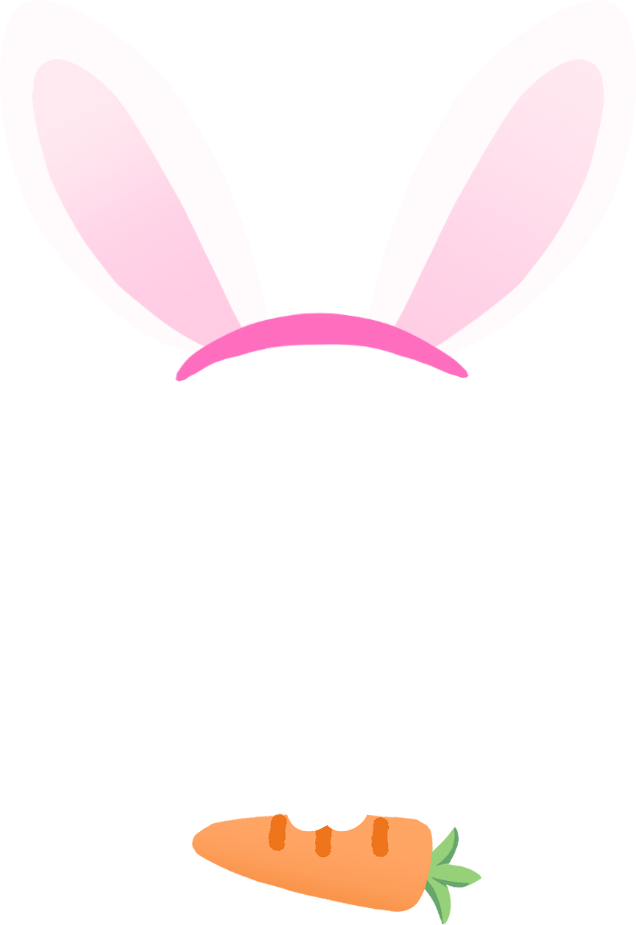
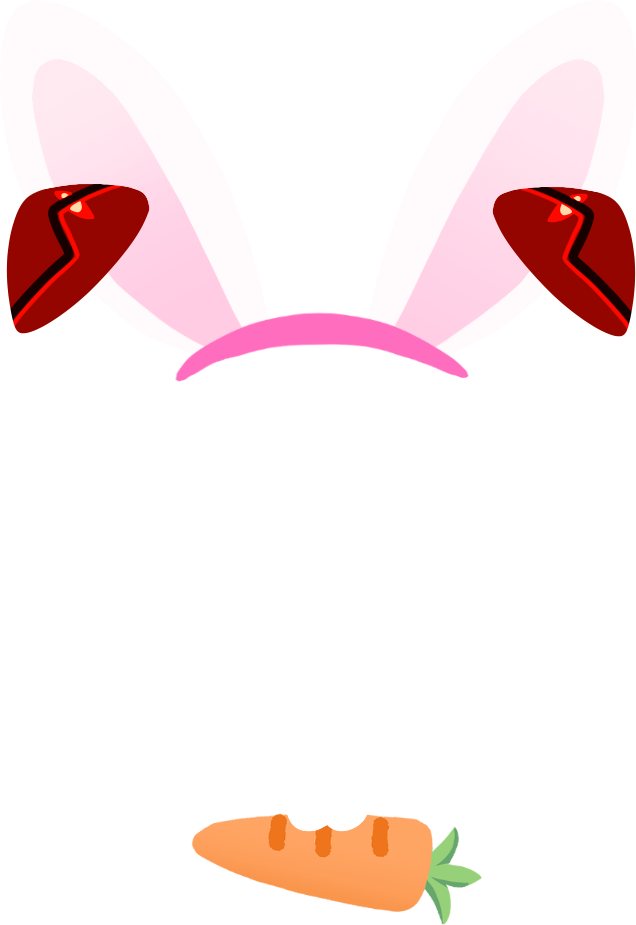
update v1787691666

Changed region(s): [[0.0, 0.1816, 0.239, 0.3632], [0.7767, 0.1816, 1.0, 0.3632]]

diff --git a/mascot.py b/mascot.py
@@ -5534,6 +5534,10 @@ class Mascot:
         self._prop_back_cfg = {}     # 뽑힌 소품의 뒤쪽 조각 움직임 설정
         self._prop_bits = []         # 여러 조각짜리 소품의 곁조각 자리 이름
         self._prop_bit_cfg = {}      # 그 조각마다의 움직임 (지뢰 13)
+        self._prop_gname = ""        # 지금 소품의 이름 (고양이·만두…)
+        self._cat_open_until = 0.0   # 고양이가 눈을 뜨고 있는 시한
+        self._cat_open_next = 0.0    # 다음에 눈을 뜰 시각
+        self._cat_heart_next = 0.0   # 다음 하트가 나올 시각
         # ── 매끈한 캐릭터 (몸만 레이어 창으로) ───────────────────────────
         # **_load_parts 보다 먼저 정해야 한다.** 파츠를 읽으면서 몸 뒤
         # 파츠의 움직임 프레임을 미리 굽는데, 그 캐시에 PIL 을 담을지
@@ -6374,6 +6378,26 @@ class Mascot:
 
     PROP_BIT_MAX = 6         # 한 소품에 붙일 수 있는 곁조각 수
 
+    # 이름(gname)으로 주는 기본 움직임 — 열여덟 캐릭터의 config 를 일일이
+    # 고치지 않아도 새 소품이 살아 움직인다. config 의 prop_motion 이 있으면
+    # 그쪽이 이긴다 (캐릭터별 손맛).
+    #   고양이: prop=꼬리(살랑) · bit2=몸 · bit3=눈감은 얼굴(리듬 까닥) ·
+    #           bit4=눈뜬 얼굴(가만히 빤히 — 움직임 없음)
+    #   만두:   bit2=김(폴폴 오르며 옅어짐)
+    PROP_MOTION_DEF = {
+        "고양이": {
+            "prop": {"motion": "sway", "amp": 8.0, "period": 2.6,
+                     "jitter": 0.18, "pivot": [0.5, 0.9], "steps": 24},
+            "prop_bit3": {"motion": "sway", "amp": 3.6, "period": 1.35,
+                          "jitter": 0.08, "pivot": [0.5, 0.86],
+                          "steps": 20},
+        },
+        "만두": {
+            "prop_bit2": {"motion": "steam", "amp": 1.0, "period": 3.4,
+                          "jitter": 0.12, "rise": 1.1, "steps": 22},
+        },
+    }
+
     def _load_prop_bits(self, pick, s, pil_cache):
         """여러 조각으로 된 특별 소품 (사가 신하나의 미쿠).
 
@@ -6405,7 +6429,10 @@ class Mascot:
         # 다시 매기면 밀린다 (미쿠가 prop16 → prop17 이 됐다). 번호로도
         # 찾아 주므로 옛 config 도 그대로 돈다.
         tab9 = self.cfg.get("prop_motion") or {}
-        mo_all = tab9.get(ent.get("gname") or "") or tab9.get(pick) or {}
+        gname9 = str(ent.get("gname") or "")
+        self._prop_gname = gname9        # 그리는 쪽(고양이 눈)이 본다
+        mo_all = (tab9.get(gname9) or tab9.get(pick)
+                  or self.PROP_MOTION_DEF.get(gname9) or {})
         self._prop_bit_cfg["prop"] = mo_all.get("prop") or {}
         for j9, key9 in enumerate(keys):
             nm9 = "prop_bit%d" % (j9 + 2)
@@ -7478,6 +7505,34 @@ class Mascot:
             im = Image.new("RGBA", pil.size, (0, 0, 0, 0))
             im.alpha_composite(pil.resize((w, pil.height), Image.LANCZOS),
                                ((pil.width - w) // 2, 0))
+        elif mode == "steam":
+            # 김 — **제자리에서 위로 폴폴** 오르며 옅어졌다 다시 차오른다.
+            # 한 주기: 아래(진하게) → 위로 오르며 옅어짐 → 사라지고 다시.
+            # sin 이 아니라 톱니(주기 진행률)를 쓴다 — 김은 왕복하지 않는다.
+            t2 = (k / float(steps)) % 1.0
+            rise = pil.height * float(mo.get("rise", 0.9))
+            pad = int(math.ceil(rise)) + 2
+            # 처음엔 스르륵 나타나고(0→0.15) 끝에서 길게 사라진다
+            if t2 < 0.15:
+                a2 = t2 / 0.15
+            else:
+                a2 = max(0.0, 1.0 - (t2 - 0.15) / 0.85)
+            # 반투명 흰 김 (요청). 매끈 레이어에서는 알파 그대로 나오고,
+            # 색상키 경로에서는 키 색과 섞여 옅은 회색 김이 된다 — 김은
+            # 원래 회끄무레해 그 모습도 자연스럽다 (지뢰 65 의 얼룩과
+            # 달리 면적이 작고 늘 움직여 테로 보이지 않는다).
+            a2 *= 0.42 + 0.30 * (1.0 - t2)
+            fade = pil.copy()
+            fade.putalpha(fade.getchannel("A").point(
+                lambda v, m9=a2: int(v * m9)))
+            wob = math.sin(t2 * 2 * math.pi) * pil.width * 0.06
+            base = Image.new("RGBA",
+                             (pil.width + 2 * pad, pil.height + 2 * pad),
+                             (0, 0, 0, 0))
+            base.alpha_composite(fade,
+                                 (pad + int(round(wob)),
+                                  pad - int(round(rise * t2))))
+            im = base
         else:
             return None
         # 움직이는 조각이 넷이 되면서 12장 × 4 = 48장이라 상한 40 을 계속
@@ -12725,7 +12780,21 @@ class Mascot:
             hy = wy = round(h * 1.5)
             cloud = self._fx_cloud(hy)
 
+            # ③-2 작은 하트 — 고양이 소품 곁에 뿅뿅 (요청). 반 크기라
+            # 캐릭터 하트와 확실히 구분된다.
+            hs = round(h * 0.52)
+            whs = max(6, round(hs * 0.92))
+
+            def drawhs(d, c="#ff9fbc"):
+                r = whs * 0.26
+                d.ellipse([0, hs * 0.14, 2 * r, hs * 0.14 + 2 * r], fill=c)
+                d.ellipse([whs - 2 * r, hs * 0.14, whs, hs * 0.14 + 2 * r],
+                          fill=c)
+                d.polygon([(1, hs * 0.34), (whs - 1, hs * 0.34),
+                           (whs / 2, hs * 0.97)], fill=c)
+
             groups = {"note": notes, "heart": [(wh, drawh)],
+                      "heart_s": [(whs, drawhs, hs)],
                       "yawn": [(wy, cloud, hy)],
                       "sweat": [(ws, draws)], "question": [(wq, drawq)],
                       "spark": [(wk, drawk)], "bang": [(wb, drawb)]}
@@ -18116,8 +18185,27 @@ class Mascot:
         차례와 움직임은 얼굴 차례에서 하던 것과 똑같이 한다.
         """
         now9 = time.time()
+        # 고양이 소품 — 눈감은 얼굴(bit3)이 기본, 가끔 눈을 뜨고(bit4)
+        # 빤히 바라본다 (요청). 두 얼굴은 같은 자리라 하나만 그린다.
+        skip9 = None
+        if self._prop_gname == "고양이" and self.has.get("prop_bit4"):
+            if now9 < self._cat_open_until:
+                skip9 = "prop_bit3"          # 눈 뜸 — 가만히 응시
+            else:
+                skip9 = "prop_bit4"
+                if not self._cat_open_next:      # 켠 직후 — 예약만
+                    self._cat_open_next = now9 + random.uniform(8.0, 18.0)
+                elif now9 >= self._cat_open_next:
+                    self._cat_open_until = now9 + random.uniform(3.0, 5.5)
+                    self._cat_open_next = (self._cat_open_until
+                                           + random.uniform(14.0, 30.0))
+                # 눈을 감고 있는 동안 반투명 작은 하트가 뿅뿅 (요청)
+                if now9 >= self._cat_heart_next:
+                    self._cat_heart_next = now9 + random.uniform(1.4, 2.4)
+                    self._safe("cat_heart", self._cat_heart, now9, yo)
         for name in (self.layout.get("overlays") or []):
-            if not name.startswith("prop") or not self.has.get(name):
+            if (not name.startswith("prop") or not self.has.get(name)
+                    or name == skip9):
                 continue
             mo9 = (getattr(self, "_prop_bit_cfg", None) or {}).get(name)
             if mo9 and mo9.get("motion"):
@@ -18125,6 +18213,47 @@ class Mascot:
                 continue
             ox, oy_ = self._pos(name)
             self._put(name, ox, oy_ + yo)
+
+    def _cat_heart(self, now, yo):
+        """고양이 소품 곁에서 뿅 하고 오르는 작은 하트.
+
+        기존 하트 파티클(_spawn_note 의 heart)을 그대로 쓰되, 자리만
+        고양이(몸 조각) 위로 잡는다 — FxLayer 가 있으면 부드럽게 옅어지고
+        (반투명, 요청) 없으면 픽셀 솎기로 물러난다 (기존과 같은 길).
+        """
+        lvs = (self.fx_imgs.get("heart_s") or self.fx_imgs.get("heart")
+               or self.fx_imgs.get("note"))
+        if not lvs:
+            return
+        body9 = ("prop_bit2" if self.has.get("prop_bit2") else "prop")
+        try:
+            bx9, by9 = self._pos(body9)
+            ent9 = self.layout.get(body9) or {}
+            sz9 = ent9.get("size") or [40, 40]
+            w9 = float(sz9[0]) * self.s
+            h9 = float(sz9[1]) * self.s
+        except Exception:
+            return
+        # **주변을 번갈아** — 왼쪽·오른쪽·위를 돌아가며, 한 번에 두세 개를
+        # 박자를 어긋내 뿅뿅 (요청: 작게 여러 개).
+        side9 = getattr(self, "_cat_heart_side", 0)
+        self._cat_heart_side = (side9 + 1) % 3
+        for j9 in range(random.randint(2, 3)):
+            if side9 == 0:              # 왼쪽 곁
+                x = bx9 - w9 * random.uniform(0.05, 0.28)
+                y = by9 + yo + h9 * random.uniform(0.1, 0.7)
+            elif side9 == 1:            # 오른쪽 곁
+                x = bx9 + w9 * (1.0 + random.uniform(0.05, 0.28))
+                y = by9 + yo + h9 * random.uniform(0.1, 0.7)
+            else:                       # 머리 위
+                x = bx9 + w9 * random.uniform(0.2, 0.8)
+                y = by9 + yo - h9 * random.uniform(0.0, 0.25)
+            # 자리·속도·수명을 제각각 주면 같은 박자에 태어나도 흩어져
+            # '번갈아 뿅뿅'으로 보인다.
+            life = random.randint(24, 38)
+            self.notes.append([x, y, random.uniform(-0.35, 0.35),
+                               random.uniform(0.7, 1.15),
+                               random.choice(lvs), life, life])
 
     def _draw_pen_hand(self):
         """펜 쥔 손. 퀸시처럼 펜이 맨 위 레이어인 캐릭터는 머리를 그린 뒤 호출.
